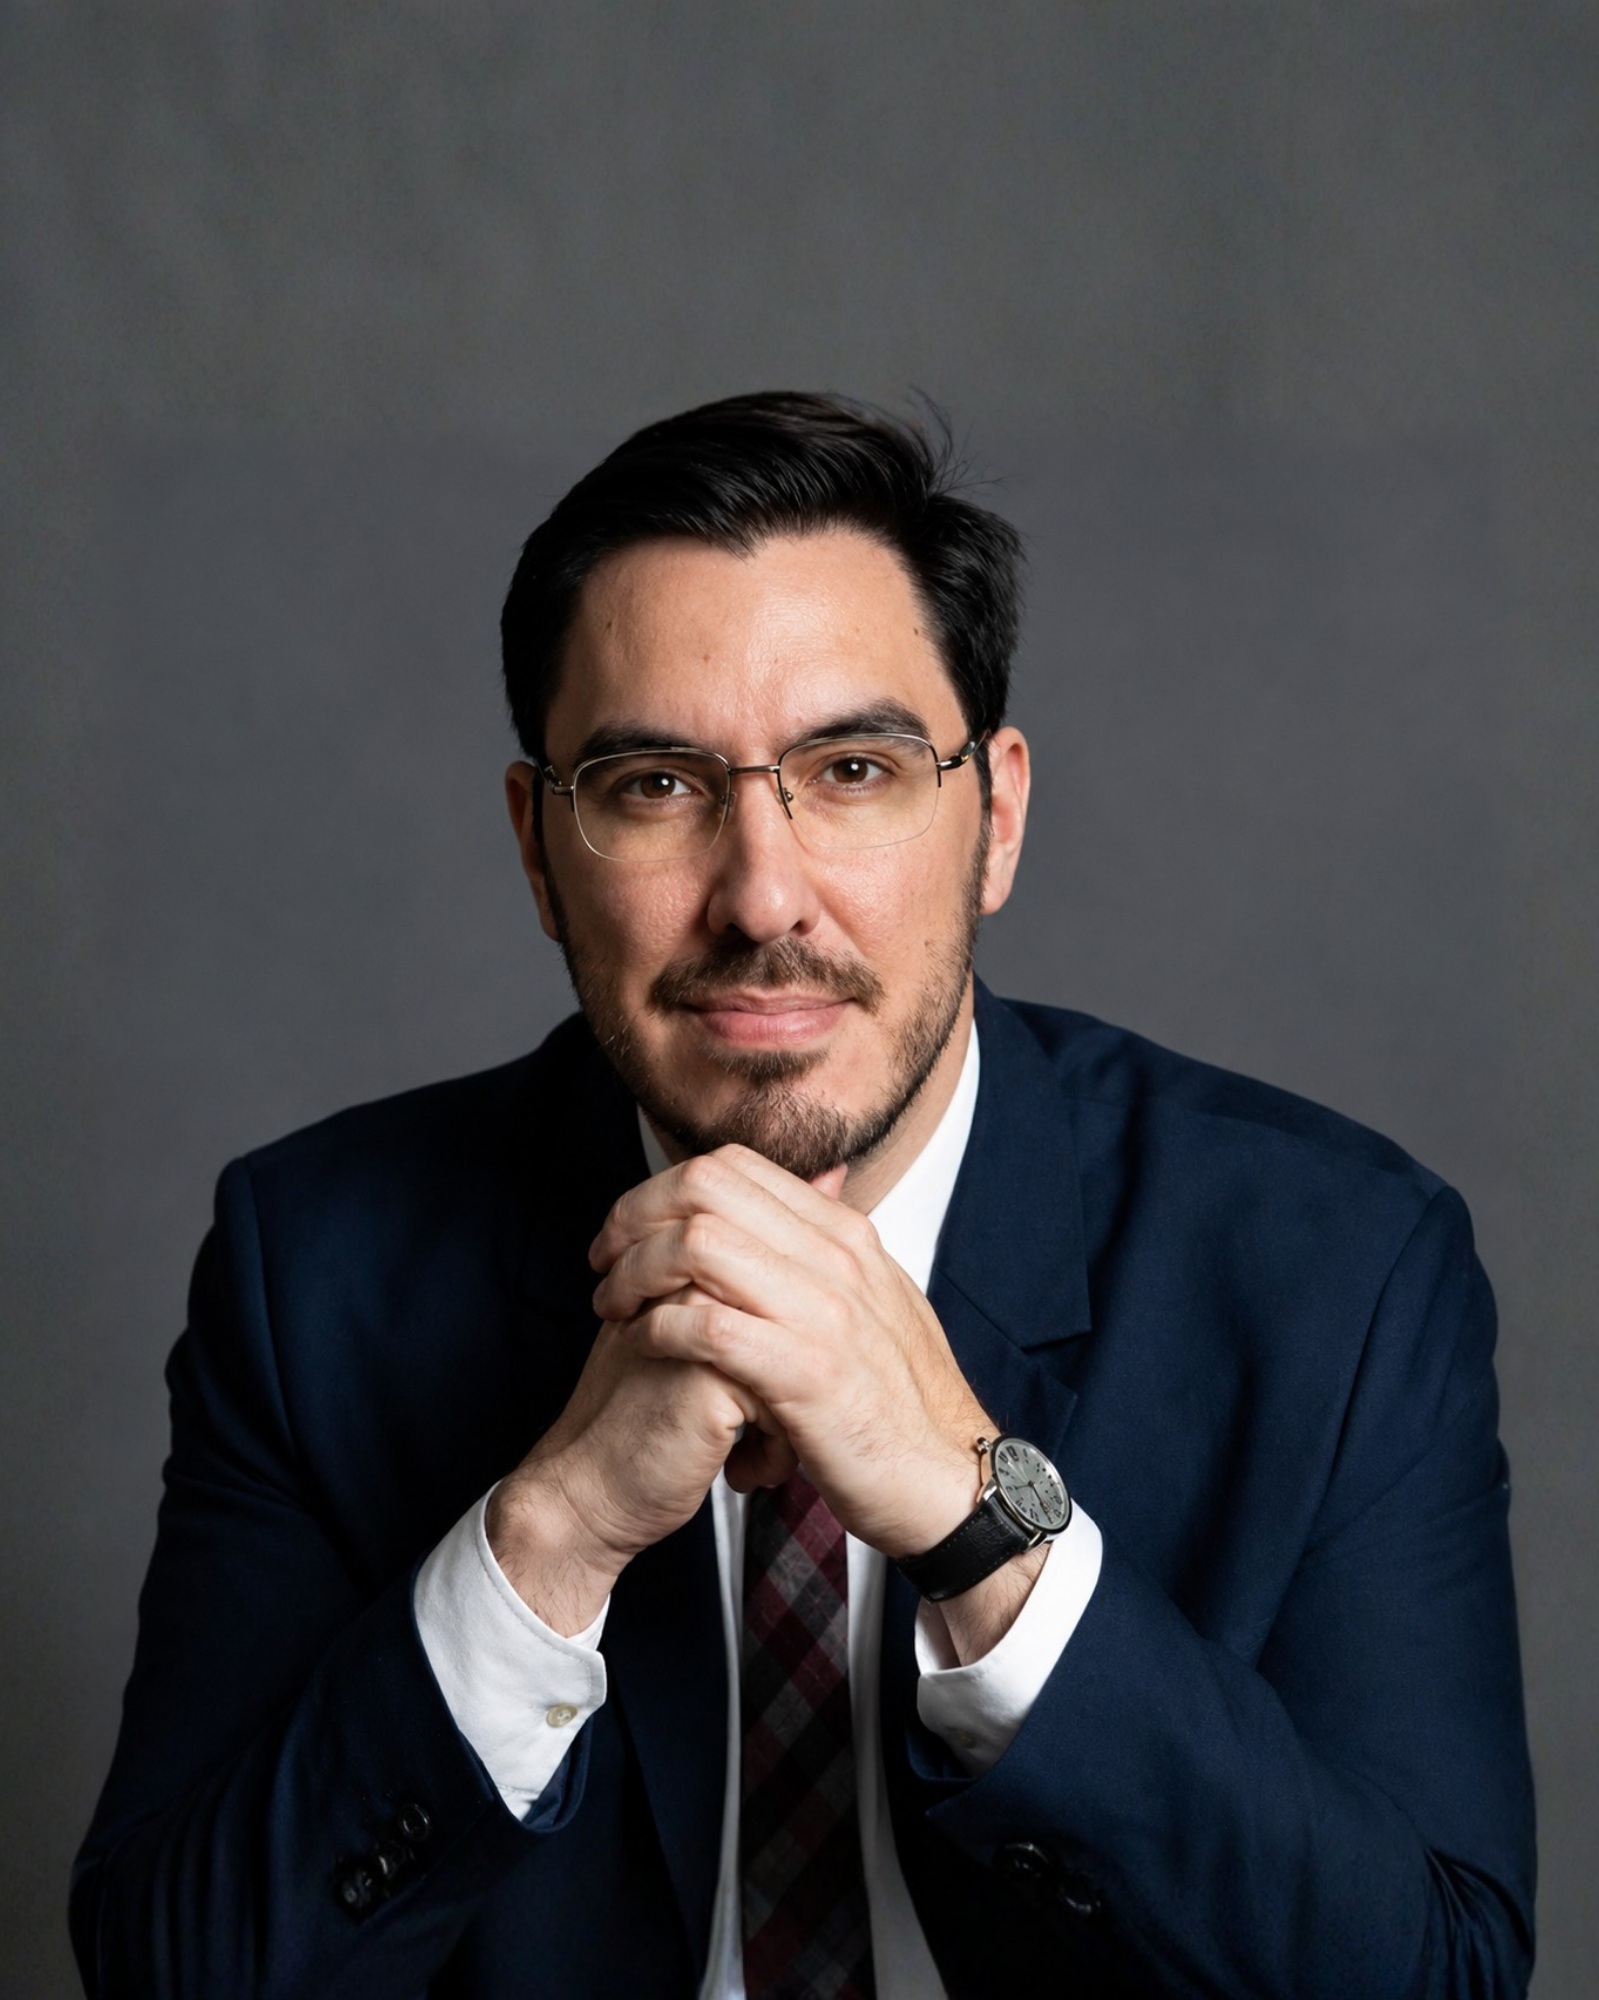
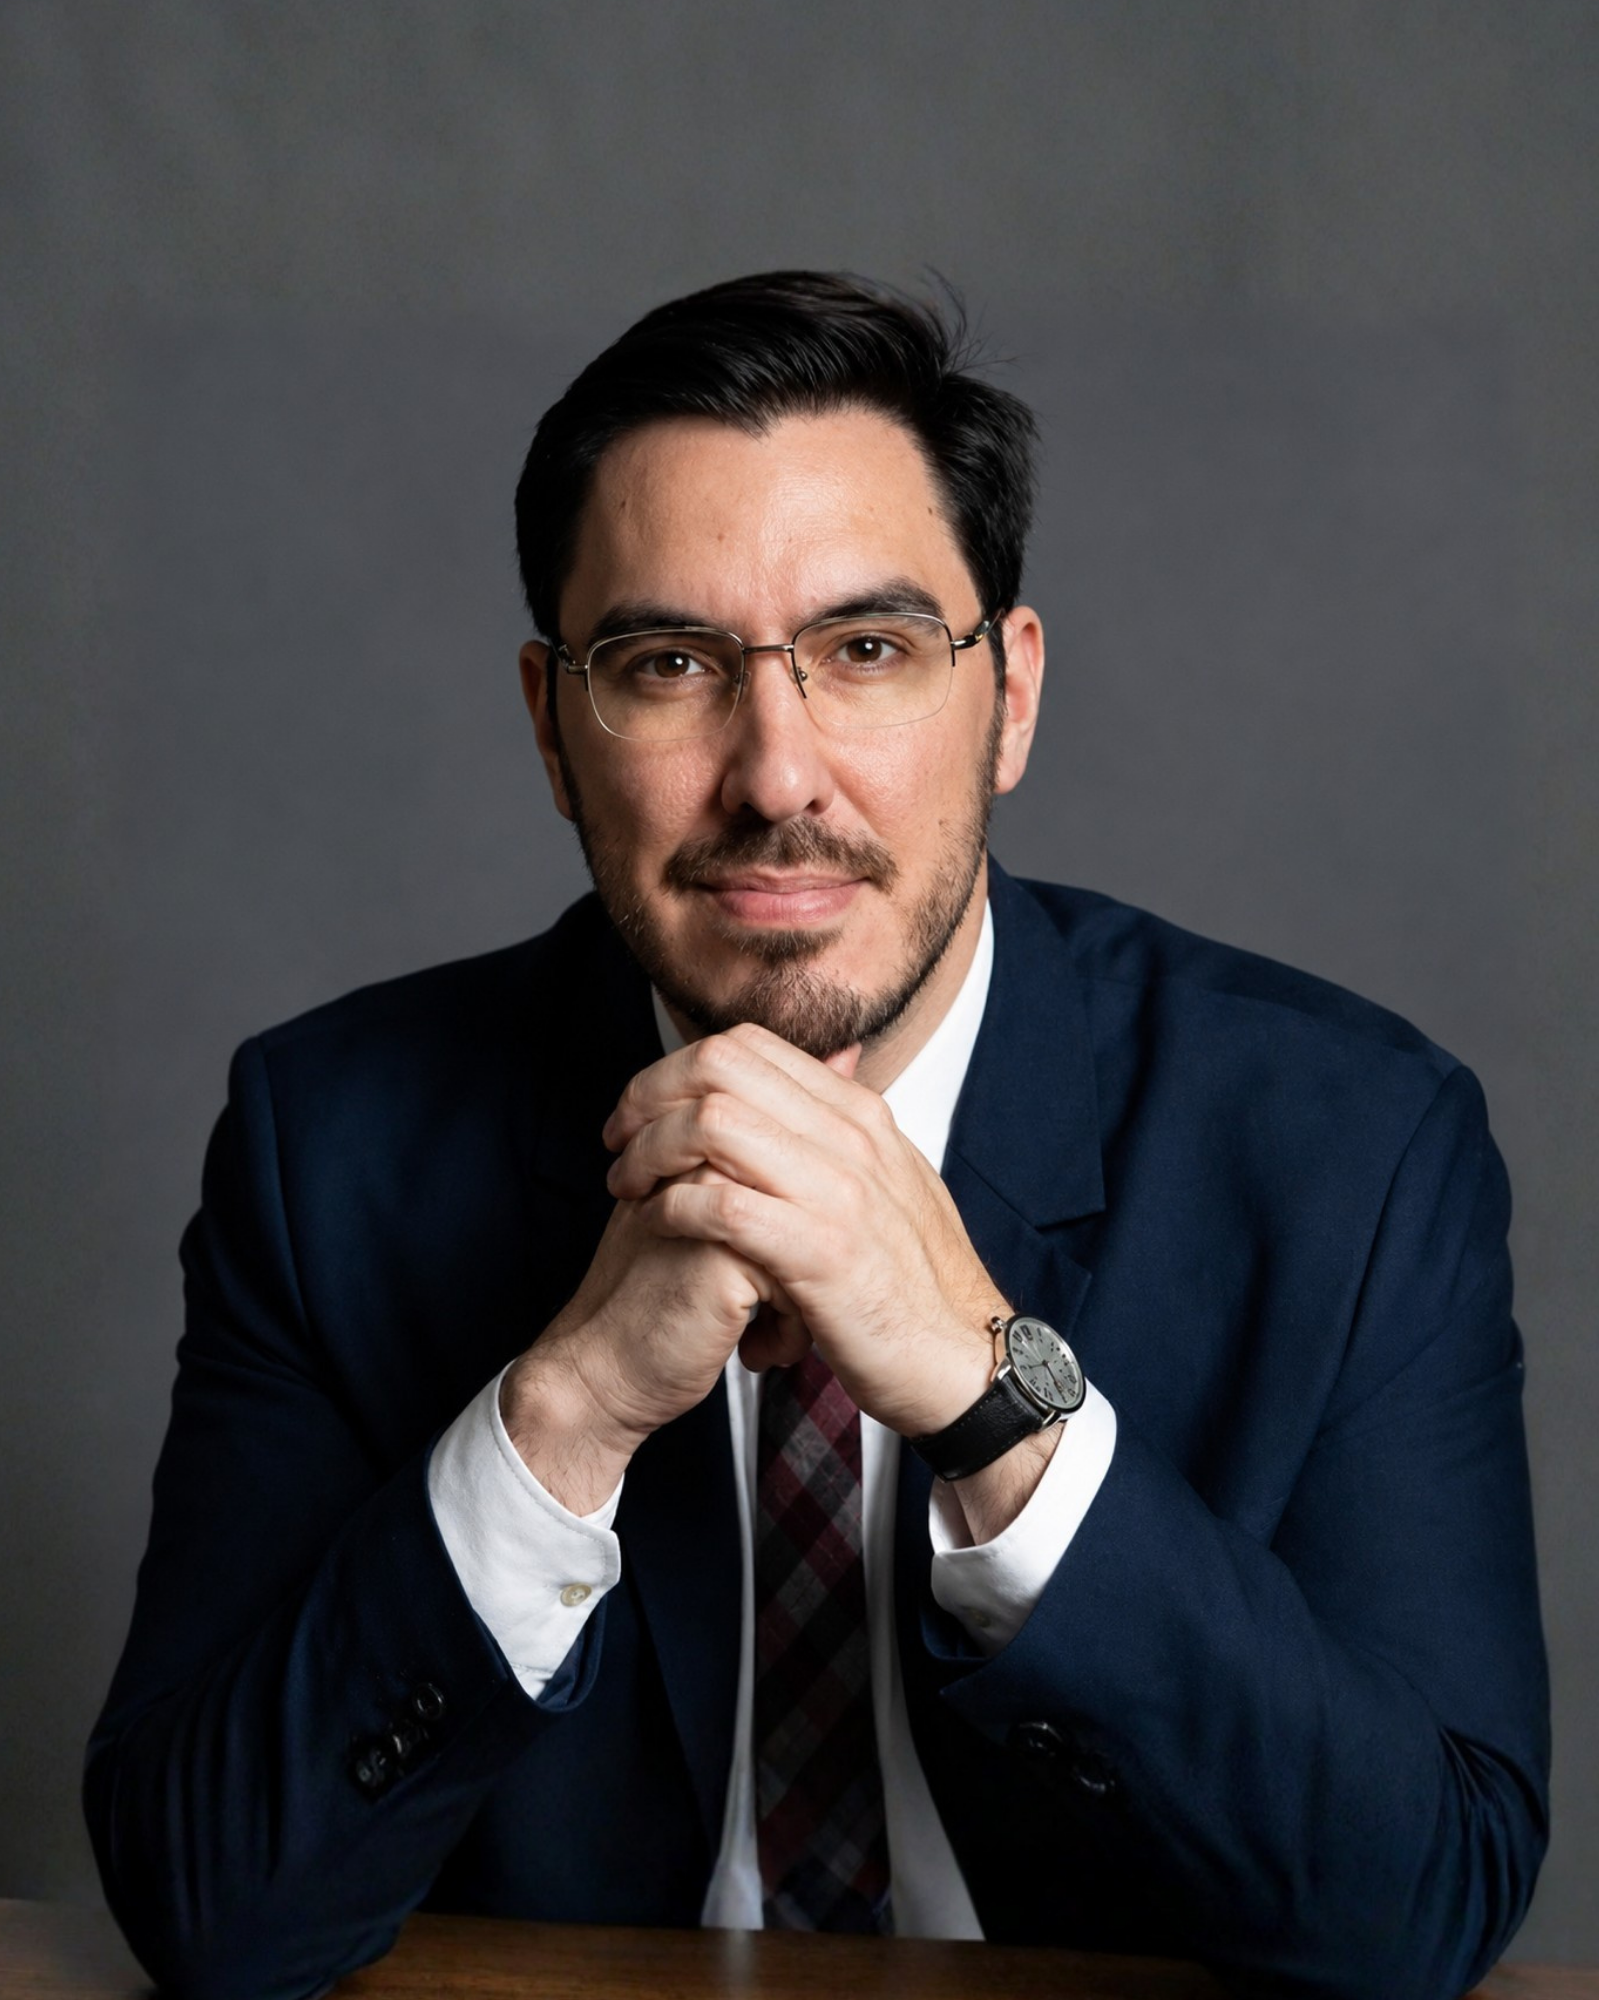
Ajustar nome do Dr. Leandro, imagem PNG e alinhamento dos rostos da equipe
Remove "de Souza" do nome exibido do Dr. Leandro em todo o site,
troca a foto do corpo clinico para versao PNG e ajusta o
object-position das fotos de Leandro e Mathias para alinhar os
rostos entre os cards da equipe.

diff --git a/index.html b/index.html
@@ -4,8 +4,8 @@
     <meta charset="UTF-8">
     <link rel="icon" type="image/png" href="FAVICON.png">
     <meta name="viewport" content="width=device-width, initial-scale=1.0">
-    <meta name="description" content="SULCARDIO Clínica Cardiológica em Içara/SC. Agende sua consulta ou exame (Ecocardiograma, Holter, MAPA) com o Dr. Leandro Vieira de Souza.">
-    <meta name="keywords" content="Cardiologista, Clínica Cardiológica, Içara, SC, Ecocardiograma, Dr. Leandro Vieira de Souza, Consulta Cardiológica">
+    <meta name="description" content="SULCARDIO Clínica Cardiológica em Içara/SC. Agende sua consulta ou exame (Ecocardiograma, Holter, MAPA) com o Dr. Leandro Vieira.">
+    <meta name="keywords" content="Cardiologista, Clínica Cardiológica, Içara, SC, Ecocardiograma, Dr. Leandro Vieira, Consulta Cardiológica">
     <title>SULCARDIO Clínica Cardiológica | Içara - SC</title>
     
     <!-- Fontes do Google -->
@@ -78,7 +78,7 @@
       "medicalSpecialty": "Cardiology",
       "doctor": {
         "@type": "Physician",
-        "name": "Dr. Leandro Vieira de Souza",
+        "name": "Dr. Leandro Vieira",
         "medicalSpecialty": "Cardiologia",
         "qualifications": [
           "Residência em Clínica Médica - FURG, Rio Grande, RS (2007)",
@@ -295,12 +295,12 @@
 
             <div class="team-grid-container">
                 <div class="team-card-new">
-                    <img src="LEANDROMED.jpg" alt="Foto do Dr. Leandro Vieira de Souza" class="team-card-image" style="object-position: center 10%;">
+                    <img src="LEANDROMED.png" alt="Foto do Dr. Leandro Vieira" class="team-card-image" style="object-position: center 25%;">
                     <div class="team-card-content">
-                        <h3 class="team-card-name">Dr. Leandro Vieira de Souza</h3>
+                        <h3 class="team-card-name">Dr. Leandro Vieira</h3>
                         <p class="team-card-specialty">Cardiologista</p>
                         <p class="team-card-credentials">CRM-SC 15408 | RQE 13319</p>
-                        <a href="https://wa.me/5548999122022?text=Olá! Gostaria de agendar uma consulta com o Dr. Leandro Vieira de Souza." target="_blank" rel="noopener noreferrer" class="btn-saiba-mais-team">Saiba mais</a>
+                        <a href="https://wa.me/5548999122022?text=Olá! Gostaria de agendar uma consulta com o Dr. Leandro Vieira." target="_blank" rel="noopener noreferrer" class="btn-saiba-mais-team">Saiba mais</a>
                     </div>
                 </div>
 
@@ -315,7 +315,7 @@
                 </div>
 
                 <div class="team-card-new">
-                    <img src="Mathias.png" alt="Foto do Dr. Mathias Silvestre de Brida" class="team-card-image" style="object-position: center 10%;">
+                    <img src="Mathias.png" alt="Foto do Dr. Mathias Silvestre de Brida" class="team-card-image" style="object-position: center 22%;">
                     <div class="team-card-content">
                         <h3 class="team-card-name">Dr. Mathias Silvestre de Brida</h3>
                         <p class="team-card-specialty">Cardiologista e Ecocardiografista</p>
@@ -411,13 +411,13 @@
 
             <div class="medico-card">
                 <div class="medico-image">
-                    <img src="LEANDRORESP.jpeg" alt="Dr. Leandro Vieira de Souza, Cardiologista">
+                    <img src="LEANDRORESP.jpeg" alt="Dr. Leandro Vieira, Cardiologista">
                 </div>
 
                 <div class="medico-content">
                     <span class="medico-badge">Cardiologista</span>
 
-                    <h3 class="medico-name">Dr. Leandro Vieira de Souza</h3>
+                    <h3 class="medico-name">Dr. Leandro Vieira</h3>
 
                     <p class="medico-specialty">Médico Cardiologista</p>
 
@@ -597,7 +597,7 @@
 
         <div class="footer-bottom">
             <p style="text-align: left; font-size: 0.8rem;">&copy; 2026 SULCARDIO Clínica Cardiológica. Todos os direitos reservados. Içara/SC.</p>
-            <p style="font-size: 0.8rem;">Responsável técnico: Dr. Leandro Vieira de Souza | CRM-SC 15408 | RQE 13319</p>
+            <p style="font-size: 0.8rem;">Responsável técnico: Dr. Leandro Vieira | CRM-SC 15408 | RQE 13319</p>
             <p style="text-align: right; font-size: 0.8rem;">Desenvolvido por <a href="https://femo.com.br/" target="_blank" rel="noopener noreferrer" style="color: var(--white); text-decoration: none; font-weight: 600; transition: opacity 0.3s;"><strong>//FEMO</strong></a></p>
         </div>
     </footer>
